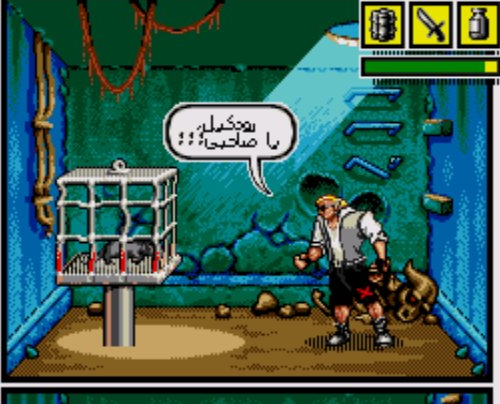
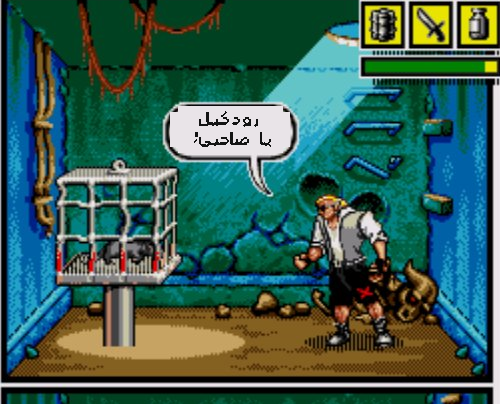
docs: update previews to reflect final in-game translations and Rooyin typography

Changed region(s): [[0.33, 0.2376, 0.6, 0.3861]]

diff --git a/README.md b/README.md
@@ -10,11 +10,11 @@ Comprehensive Arabic fan translation, custom Rooyin pixel font pipeline, SRAM au
 
 | فقاعات الحوار (Dialogue Bubble) | المشاهد السينمائية السردية (Story Cutscenes) |
 |:---:|:---:|
-| <img src="previews/preview_dialogue_bubble.png" width="450" alt="فقاعة الحوار داخل اللعبة" /><br><sub>**حوار داخل اللعبة:** سكيتش تيرنر يتحدث مع رودكيل داخل القفص ("رودكيل، يا صاحبي!!!")</sub> | <img src="previews/preview_cutscene_story.png" width="450" alt="المشهد السينمائي" /><br><sub>**المشهد الافتتاحي:** مورتس يرسم في مرسمه ("في هذا الجسد من لحم وعظم...")</sub> |
+| <img src="previews/preview_dialogue_bubble.png" width="450" alt="فقاعة الحوار داخل اللعبة" /><br><sub>**حوار داخل اللعبة:** سكيتش تيرنر يتحدث مع رودكيل داخل القفص ("رودكيل، يا صاحبي!")</sub> | <img src="previews/preview_cutscene_story.png" width="450" alt="المشهد السينمائي" /><br><sub>**المشهد الافتتاحي:** مورتس يرسم في مرسمه ("في هذا الجسد من لحم وعظم...")</sub> |
 
 | الصناديق السردية الصفراء (Narrative Box) | بطاقة بداية الحلقة (Episode Title Card) |
 |:---:|:---:|
-| <img src="previews/preview_narrative_box.png" width="450" alt="الصناديق السردية" /><br><sub>**الصناديق السردية:** أليسا وسكيتش في غرفة القيادة بتنسيق الكوميكس الأصفر</sub> | <img src="previews/preview_episode_title.png" width="450" alt="بطاقة الحلقة الأولى" /><br><sub>**شاشة البداية:** الحلقة الأولى ("ليلة المتحولين") بالخط العربي</sub> |
+| <img src="previews/preview_narrative_box.png" width="450" alt="الصناديق السردية" /><br><sub>**الصناديق السردية:** أليسا وسكيتش في غرفة القيادة ("مركز قيادة N.W.E. / نيويورك الحديثة")</sub> | <img src="previews/preview_episode_title.png" width="450" alt="بطاقة الحلقة الأولى" /><br><sub>**شاشة البداية:** الحلقة الأولى ("ليلة المتحولين") بالخط العربي</sub> |
 
 ---
 
